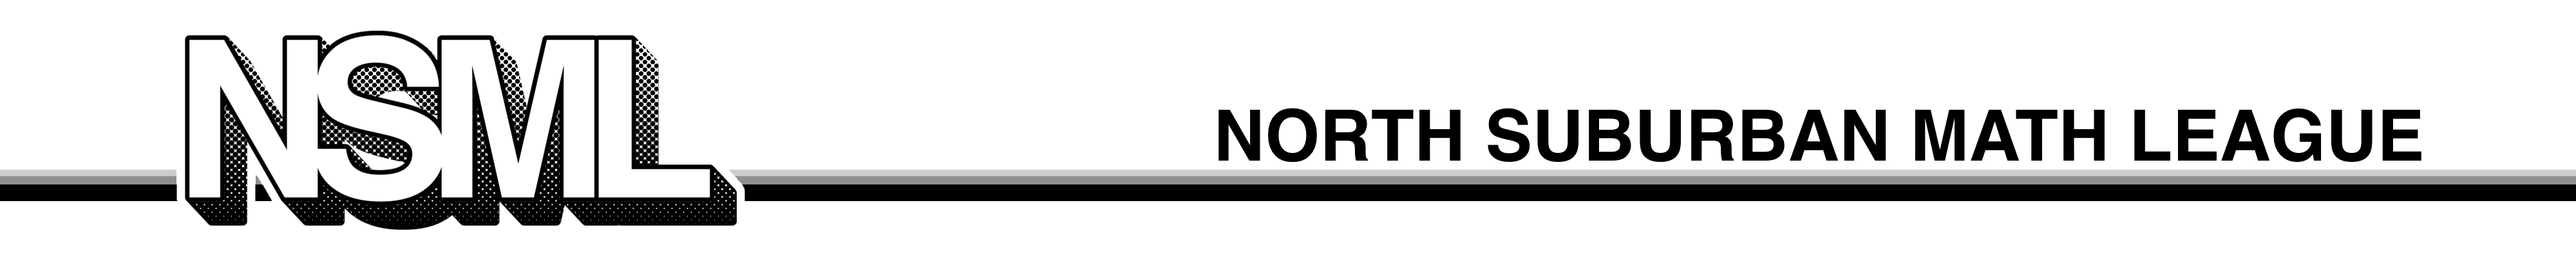
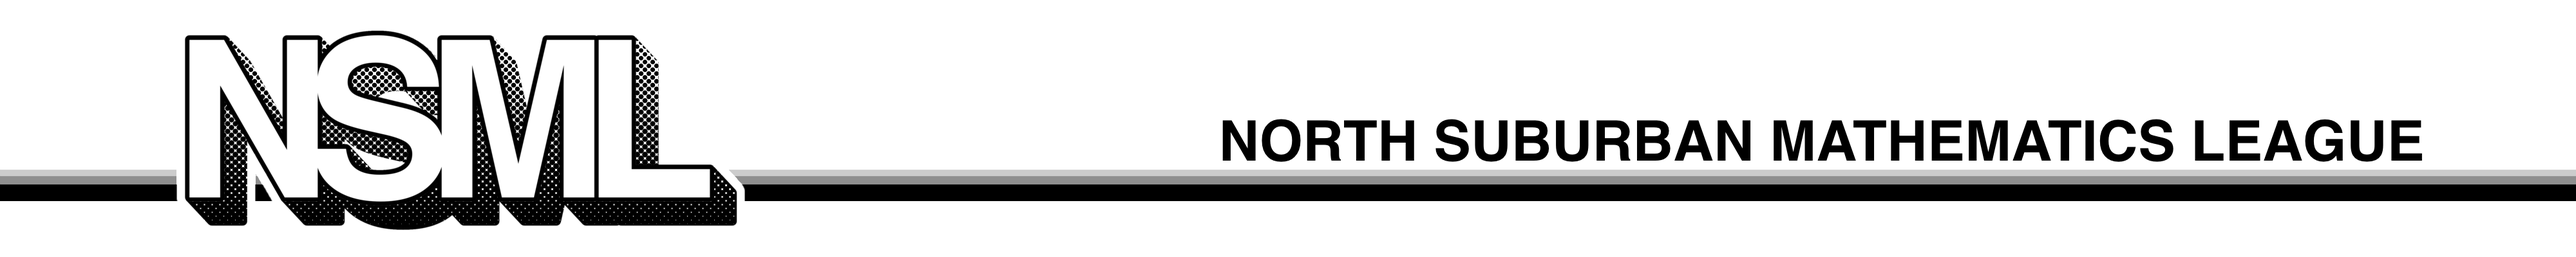
Updated header: math -> mathematics. Hosting -> final position.

Changed region(s): [[0.4688, 0.42, 0.9375, 0.63]]

diff --git a/newhost-advice.md b/newhost-advice.md
@@ -1,8 +1,8 @@
 ---
 title: "New Host Advice"
-# parent: "Home"
+parent: "Hosting"
 layout: default
-nav_order: 110
+nav_order: 310
 ---
 <!-- note: layout deliberately does not include the NSML logo -->
 

diff --git a/hosting/index.md b/hosting/index.md
@@ -1,7 +1,7 @@
 ---
 title: Hosting
 #parent: Home
-nav_order: 40
+nav_order: 90
 has_children: true
 layout: xdefault
 ---
